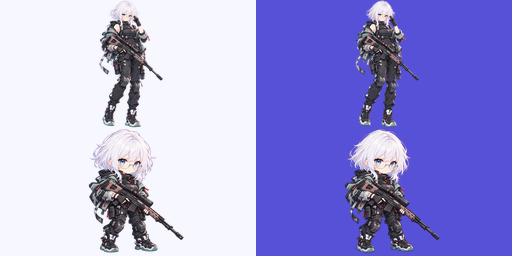
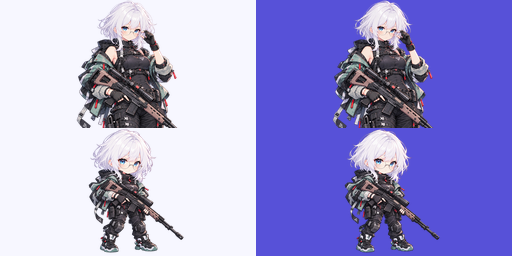
Use upper-body portrait for female sniper

Changed region(s): [[0.625, 0.0, 0.8438, 0.5], [0.125, 0.0, 0.3438, 0.5]]

diff --git a/crystal-game.js b/crystal-game.js
@@ -90,7 +90,7 @@
     mage:{label:'마법사',title:'ARCANE SCHOLAR',trait:'타임 스톱 · 가끔 시간 정지',skill:'타임 스톱',skillDesc:'문제마다 30% 확률로 답을 선택할 때까지 시간이 멈춰요.',stats:{hp:2,mp:2,atk:5,luk:4},growth:{hp:2,mp:4,atk:5,luk:3},paths:{male:'mage.webp',female:'variants/mage-female.webp'}},
     pugilist:{label:'권투사',title:'COMBO MASTER',trait:'콤보 마스터 · 3콤보 보너스',skill:'크리스털 가방',skillDesc:'3 콤보당 보너스 +1 크리스털 지급',stats:{hp:4,mp:1,atk:3,luk:3},growth:{hp:4,mp:2,atk:3,luk:3},paths:{male:'variants/pugilist-male.webp',female:'pugilist.webp?v=20260921-alpha'}},
     ranger:{label:'궁수',title:'TREASURE HUNTER',trait:'보물 사냥꾼 · 상자 최소 20개',skill:'행운의 화살',skillDesc:'보물상자에서 최소 20 크리스털을 찾아요.',stats:{hp:3,mp:1,atk:3,luk:4},growth:{hp:3,mp:2,atk:3,luk:4},paths:{male:'variants/ranger-male.webp',female:'ranger.webp'}},
-    sniper:{label:'스나이퍼',title:'WHITE SNIPER',trait:'심안의 저격 · 20% 확률로 정답 안내',skill:'심안의 저격',skillDesc:'마음의 눈으로 적을 겨냥한다. 20% 확률로 객관식 정답을 표시하고, 매칭형 정답 쌍을 같은 색으로 알려줘요.',stats:{hp:3,mp:2,atk:4,luk:2},growth:{hp:2,mp:2,atk:4,luk:3},paths:{female:'variants/sniper-female.webp'}}
+    sniper:{label:'스나이퍼',title:'WHITE SNIPER',trait:'심안의 저격 · 20% 확률로 정답 안내',skill:'심안의 저격',skillDesc:'마음의 눈으로 적을 겨냥한다. 20% 확률로 객관식 정답을 표시하고, 매칭형 정답 쌍을 같은 색으로 알려줘요.',stats:{hp:3,mp:2,atk:4,luk:2},growth:{hp:2,mp:2,atk:4,luk:3},paths:{female:'variants/sniper-female-upper-body.webp'}}
   };
   const builtinWorlds = [
     {name:'속삭이는 숲',sub:'기초부터 도전까지 · 모든 단어가 이어지는 숲길',code:'F1A2',keys:builtinStageKeys.slice()}

diff --git a/scripts/export-sniper-art.py b/scripts/export-sniper-art.py
@@ -11,10 +11,12 @@ source.mkdir(parents=True, exist_ok=True)
 parser = argparse.ArgumentParser()
 parser.add_argument('--standing-input', type=Path)
 parser.add_argument('--sd-input', type=Path)
+parser.add_argument('--profile-input', type=Path)
 args = parser.parse_args()
 inputs = {
     'standing-cg.png': args.standing_input,
     'sd-identity.png': args.sd_input,
+    'profile-upper-body.png': args.profile_input,
 }
 for name, path in inputs.items():
     destination = source / name
@@ -25,10 +27,12 @@ for name, path in inputs.items():
 
 standing = Image.open(source / 'standing-cg.png').convert('RGBA')
 standing.save(root / 'assets/characters/sniper/char_sniper_female_standing.webp', quality=92)
-standing.thumbnail((512, 512), Image.Resampling.LANCZOS)
+upper_body = Image.open(source / 'profile-upper-body.png').convert('RGBA')
+upper_body.save(root / 'assets/characters/sniper/char_sniper_female_upper_body.webp', quality=92)
+upper_body.thumbnail((512, 512), Image.Resampling.LANCZOS)
 portrait = Image.new('RGBA', (512, 512))
-portrait.alpha_composite(standing, ((512-standing.width)//2, 512-standing.height))
-portrait.save(root / 'assets/avatars/variants/sniper-female.webp', quality=90)
+portrait.alpha_composite(upper_body, ((512-upper_body.width)//2, 512-upper_body.height))
+portrait.save(root / 'assets/avatars/variants/sniper-female-upper-body.webp', quality=90)
 sd = Image.open(source / 'sd-identity.png').convert('RGBA')
 sd.thumbnail((320, 312), Image.Resampling.LANCZOS)
 cell = Image.new('RGBA', (320, 320))
@@ -43,7 +47,7 @@ manifest = {
 }
 (root / 'assets/characters/sniper/char_sniper_female_sd_idle.json').write_text(
     json.dumps(manifest, ensure_ascii=False, indent=2) + '\n', encoding='utf-8')
-for path in [root / 'assets/avatars/variants/sniper-female.webp', root / 'assets/characters/sniper/char_sniper_female_sd_idle.png']:
+for path in [root / 'assets/avatars/variants/sniper-female-upper-body.webp', root / 'assets/characters/sniper/char_sniper_female_sd_idle.png']:
     image = Image.open(path)
     print(path.relative_to(root), image.size, image.getchannel('A').getextrema())
 
